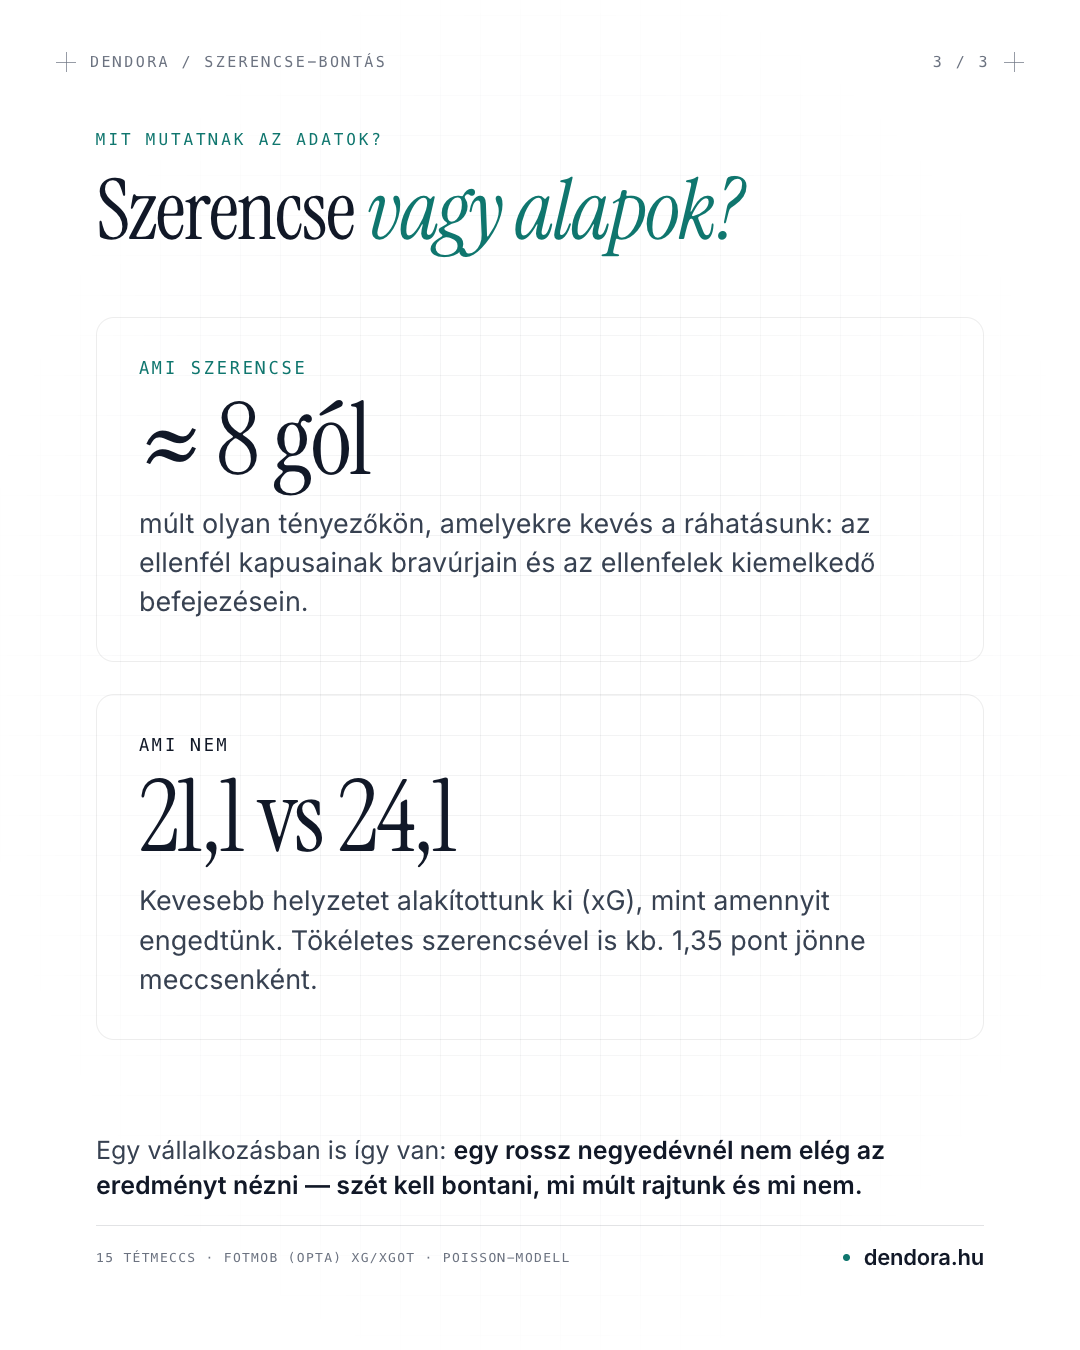
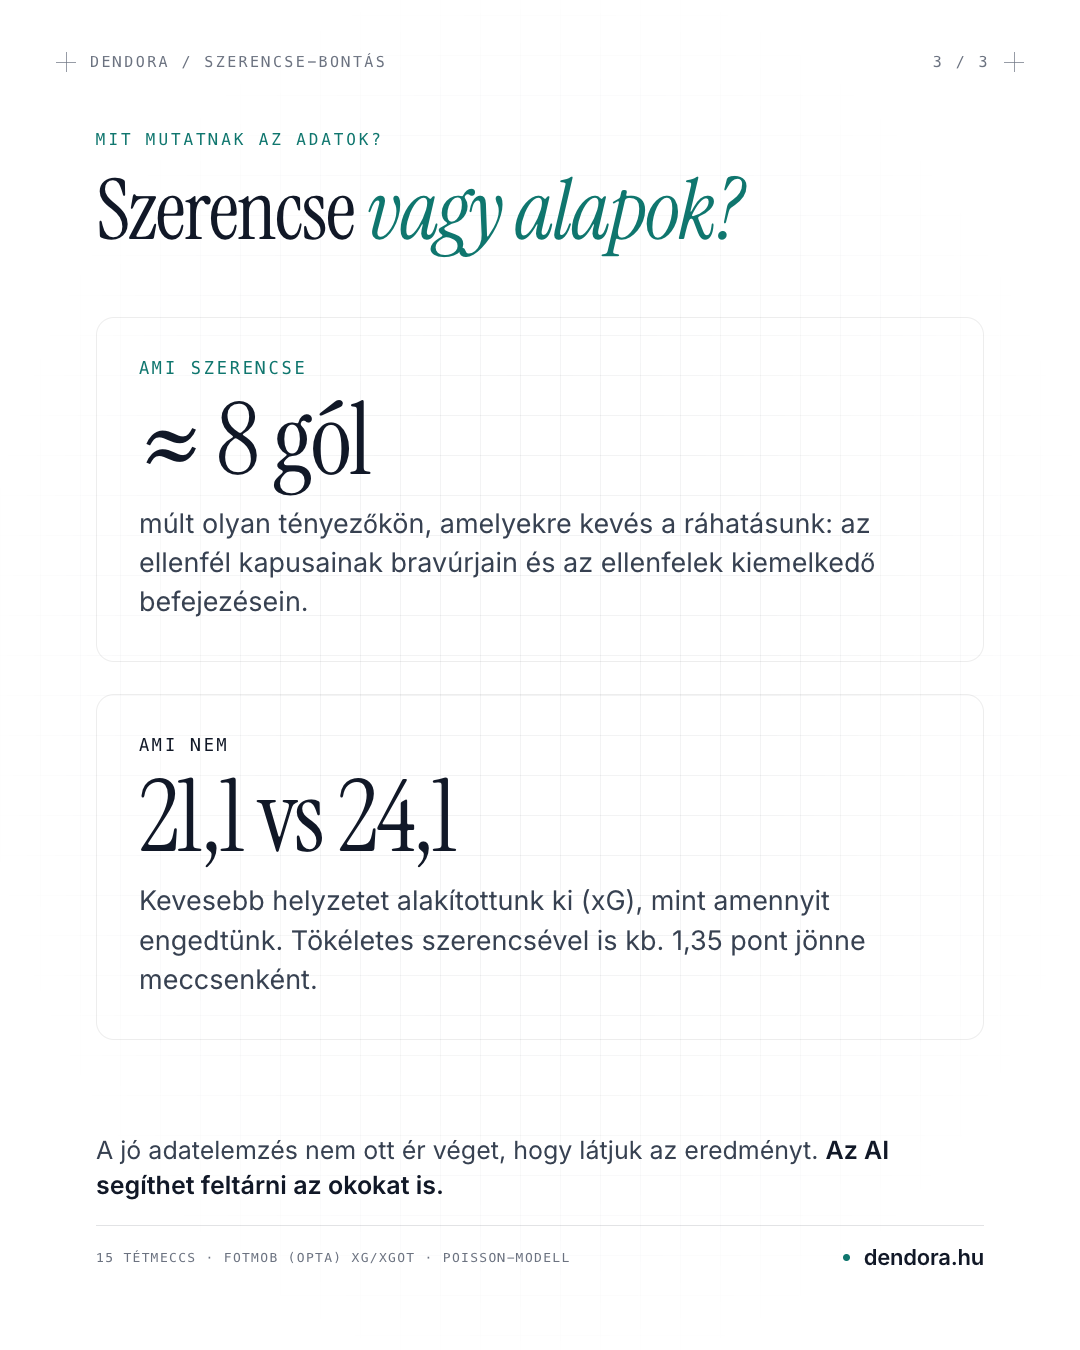
feat(brand): Szerencse-bontás carousel + data-driven match card template
- social.html: three 4:5 "Szerencse-bontás" cards (HU–UA 0–1 and two
  years of competitive matches, xG/xGOT decomposition)
- match card now reads from a MATCHES list (Hungary always left) with an
  optional Megérdemelt-mérő (win/draw/loss from xG, Poisson); template
  entry for Northern Ireland–Hungary (2026-09-28); HU–UA output unchanged
- social.mjs: `kind:id` args (`npm run promo:social -- meccs:<id>`),
  ids restricted to [a-z0-9-]
- brand/social/posts/szerencse-bontas-{1,2,3}.png

Changed region(s): [[0.0917, 0.84, 0.825, 0.9022]]

diff --git a/brand/promo/social.html b/brand/promo/social.html
@@ -66,6 +66,17 @@ h1 em{font-style:italic;color:var(--acc)}
 .mc-meta{display:flex;justify-content:space-between;align-items:center;border-top:1px solid rgba(17,24,39,.12);padding-top:18px}
 .mc-meta .src{font-family:var(--mono);font-size:13px;letter-spacing:.1em;text-transform:uppercase;color:var(--mut)}
 .mc-meta .url{margin-top:0}
+.mtr{margin-top:30px;margin-bottom:26px;display:flex;flex-direction:column;gap:14px}
+.mtr-h{display:flex;justify-content:space-between;font-family:var(--mono);font-size:15px;letter-spacing:.16em;text-transform:uppercase;color:var(--acc)}
+.mtr-h span:last-child{color:var(--mut)}
+.mtr-bar{display:flex;gap:4px;height:18px}
+.mtr-bar i{display:block;height:100%;border-radius:6px;background:#d1d5db}
+.mtr-bar i:first-child{background:var(--ink)}
+.mtr-bar i:nth-child(2){background:#9ca3af}
+.mtr-l{display:flex;justify-content:space-between;font-size:21px;color:var(--ink2)}
+.mtr-l b{font-weight:600;color:var(--ink);font-variant-numeric:tabular-nums}
+.mc-title h2.long{font-size:60px}
+.row .trk.unk i{background:#e5e7eb !important}
 
 /* Szerencse-bontás carousel (3 × 1080×1350). Key content stays in the centre square because FB crops multi-photo tiles. */
 .sz{width:1080px;height:1350px}
@@ -126,36 +137,99 @@ h1 em{font-style:italic;color:var(--acc)}
 <section class="art" id="meccs">
   <div class="grid"></div>
   <div class="hud tl"><i class="cross"></i><span>Dendora / Meccsadatok</span></div>
-  <div class="hud tr"><span>Nemzetek Ligája · B · 1. ford.</span><i class="cross"></i></div>
+  <div class="hud tr"><span id="mComp"></span><i class="cross"></i></div>
   <div class="mc">
-    <div class="kicker">2026. szeptember 25. · Puskás Aréna · 56 799 néző</div>
-    <div class="mc-title"><h2>Magyarország–Ukrajna</h2><span class="mc-score">0–1</span></div>
-    <div class="mc-lead">Az adatok nekünk kedveztek. <em>Az eredmény nem.</em></div>
-    <div class="mc-head"><span>Magyarország</span><span>Ukrajna</span></div>
+    <div class="kicker" id="mKicker"></div>
+    <div class="mc-title"><h2 id="mTitle"></h2><span class="mc-score" id="mScore"></span></div>
+    <div class="mc-lead" id="mLead"></div>
+    <div class="mc-head"><span id="mLeft"></span><span id="mRight"></span></div>
     <div id="rows"></div>
+    <div id="meter"></div>
     <div class="mc-foot">
-      <p>Egy vállalkozásban is így van: <strong>nem az adat mennyisége dönt, hanem hogy mit kezdünk vele.</strong></p>
-      <div class="mc-meta"><span class="src">Forrás: FotMob (Opta) · MLSZ</span><span class="url"><i></i>dendora.hu</span></div>
+      <p id="mFoot"></p>
+      <div class="mc-meta"><span class="src" id="mSrc"></span><span class="url"><i></i>dendora.hu</span></div>
     </div>
   </div>
 </section>
 
 <script>
-// [label, HU, UA, display HU, display UA]
-const STATS = [
-  ['Labdabirtoklás', 57, 43, '57%', '43%'],
-  ['Lövések', 17, 10, '17', '10'],
-  ['Kaput eltaláló lövések', 4, 3, '4', '3'],
-  ['Várható gólok (xG)', 2.0, 1.03, '2,00', '1,03'],
-  ['Passzok', 527, 400, '527', '400'],
-  ['Passzpontosság', 85, 84, '85%', '84%'],
-  ['Szögletek', 4, 2, '4', '2'],
-];
-const row = ([l, a, b, da, db], cls = '') => {
-  const pa = (a / (a + b)) * 100;
-  return `<div class="row ${cls}"><b>${da}</b><div class="mid"><span class="lbl">${l}</span><div class="trk"><i style="width:${pa}%"></i><i style="flex:1"></i></div></div><b>${db}</b></div>`;
+// "Adatokban a meccs" series. Hungary always in the left column; stats: [label, left, right, suffix, decimals]. null = not yet known.
+const MATCHES = {
+  'hu-ua-2026-09-25': {
+    comp: 'Nemzetek Ligája · B · 1. ford.',
+    kicker: '2026. szeptember 25. · Puskás Aréna · 56 799 néző',
+    title: 'Magyarország–Ukrajna', score: '0–1',
+    lead: 'Az adatok nekünk kedveztek. <em>Az eredmény nem.</em>',
+    left: 'Magyarország', right: 'Ukrajna',
+    stats: [
+      ['Labdabirtoklás', 57, 43, '%'],
+      ['Lövések', 17, 10],
+      ['Kaput eltaláló lövések', 4, 3],
+      ['Várható gólok (xG)', 2.0, 1.03, '', 2],
+      ['Passzok', 527, 400],
+      ['Passzpontosság', 85, 84, '%'],
+      ['Szögletek', 4, 2],
+    ],
+    goals: [0, 1],
+    xg: null,
+    foot: 'Egy vállalkozásban is így van: <strong>nem az adat mennyisége dönt, hanem hogy mit kezdünk vele.</strong>',
+    src: 'Forrás: FotMob (Opta) · MLSZ',
+  },
+  // Template for Monday: fill in after the match, then `node brand/promo/social.mjs meccs:nir-hu-2026-09-28`.
+  'nir-hu-2026-09-28': {
+    comp: 'Nemzetek Ligája · B · 2. ford.',
+    kicker: '2026. szeptember 28. · Belfast',
+    title: 'Észak-Írország–Magyarország', score: '?–?',
+    lead: 'Mit mutatnak az adatok?',
+    left: 'Magyarország', right: 'Észak-Írország',
+    stats: [
+      ['Labdabirtoklás', null, null, '%'],
+      ['Lövések', null, null],
+      ['Kaput eltaláló lövések', null, null],
+      ['Várható gólok (xG)', null, null, '', 2],
+      ['Kapura tartó lövések értéke (xGOT)', null, null, '', 2],
+    ],
+    goals: [null, null],
+    xg: [null, null],
+    foot: 'A jó adatelemzés nem ott ér véget, hogy látjuk az eredményt. <strong>Az AI segíthet feltárni az okokat is.</strong>',
+    src: 'Forrás: FotMob (Opta) · MLSZ',
+  },
 };
-document.getElementById('rows').innerHTML = STATS.map((s) => row(s)).join('') + row(['Gólok', 0, 1, '0', '1'], 'goal');
+
+const huNum = (v, dec = 0) => (v == null ? '—' : v.toFixed(dec).replace('.', ','));
+const row = ([l, a, b, suf = '', dec = 0], cls = '') => {
+  const known = a != null && b != null && a + b > 0;
+  const pa = known ? (a / (a + b)) * 100 : 50;
+  const val = (v) => (v == null ? '—' : huNum(v, dec) + suf);
+  return `<div class="row ${cls}"><b>${val(a)}</b><div class="mid"><span class="lbl">${l}</span><div class="trk${known ? '' : ' unk'}"><i style="width:${pa}%"></i><i style="flex:1"></i></div></div><b>${val(b)}</b></div>`;
+};
+const pois = (k, l) => Math.exp(-l) * l ** k / [...Array(k).keys()].reduce((f, i) => f * (i + 1), 1);
+// Win/draw/loss probabilities for the left team from both xG values (independent Poisson).
+function deserved(l1, l2) {
+  let w = 0, d = 0, x = 0;
+  for (let i = 0; i < 12; i++) for (let j = 0; j < 12; j++) {
+    const p = pois(i, l1) * pois(j, l2);
+    if (i > j) w += p; else if (i === j) d += p; else x += p;
+  }
+  return [w, d, x];
+}
+
+const M = MATCHES[new URLSearchParams(location.search).get('m') || 'hu-ua-2026-09-25'];
+if (M) {
+  const set = (id, html) => (document.getElementById(id).innerHTML = html);
+  set('mComp', M.comp); set('mKicker', M.kicker); set('mTitle', M.title); set('mScore', M.score);
+  set('mLead', M.lead); set('mLeft', M.left); set('mRight', M.right); set('mFoot', M.foot); set('mSrc', M.src);
+  if (M.title.length > 22) document.getElementById('mTitle').classList.add('long');
+  set('rows', M.stats.map((s) => row(s)).join('') + row(['Gólok', ...M.goals], 'goal'));
+  if (M.xg) {
+    const known = M.xg.every((v) => v != null);
+    const [w, d, x] = known ? deserved(...M.xg) : [null, null, null];
+    const pct = (v) => (v == null ? '—' : Math.round(v * 100) + '%');
+    set('meter', `<div class="mtr"><div class="mtr-h"><span>Megérdemelt-mérő</span><span>xG alapján</span></div>
+      <div class="mtr-bar">${known ? `<i style="width:${w * 100}%"></i><i style="width:${d * 100}%"></i><i style="flex:1"></i>` : '<i style="flex:1;opacity:.25"></i>'}</div>
+      <div class="mtr-l"><span><b>${pct(w)}</b> ${M.left} nyer</span><span><b>${pct(d)}</b> döntetlen</span><span><b>${pct(x)}</b> ${M.right} nyer</span></div></div>`);
+  }
+}
 </script>
 
 <section class="art sz" id="szerencse1">
@@ -206,7 +280,7 @@ document.getElementById('rows').innerHTML = STATS.map((s) => row(s)).join('') + 
       <div class="bx n"><span class="k">Ami nem</span><b>21,1 vs 24,1</b><p>Kevesebb helyzetet alakítottunk ki (xG), mint amennyit engedtünk. Tökéletes szerencsével is kb. 1,35 pont jönne meccsenként.</p></div>
     </div>
     <div class="mc-foot">
-      <p>Egy vállalkozásban is így van: <strong>egy rossz negyedévnél nem elég az eredményt nézni — szét kell bontani, mi múlt rajtunk és mi nem.</strong></p>
+      <p>A jó adatelemzés nem ott ér véget, hogy látjuk az eredményt. <strong>Az AI segíthet feltárni az okokat is.</strong></p>
       <div class="mc-meta"><span class="src">15 tétmeccs · FotMob (Opta) xG/xGOT · Poisson-modell</span><span class="url"><i></i>dendora.hu</span></div>
     </div>
   </div>

diff --git a/brand/README.md b/brand/README.md
@@ -30,6 +30,7 @@ A promóvideó és a közösségi képek forrása (HTML + JS, Playwright + ffmpe
 | `npm run promo -- serve` | Böngészős előnézet: `http://127.0.0.1:4555/brand/promo/index.html?f=4x5` |
 | `npm run promo:shots` | Élő oldalak (AndiHealth, Ariel) képernyőképei → `promo/assets/shots/` |
 | `npm run promo:social` | Facebook-profilkép és -borító → `social/` |
+| `npm run promo:social -- meccs:<id>` | „Adatokban a meccs" kártya a `social.html` `MATCHES` listájából → `social/posts/meccs-<id>.png` (pl. `szerencse1 szerencse2 szerencse3` is) |
 
 ## `print/`
 
